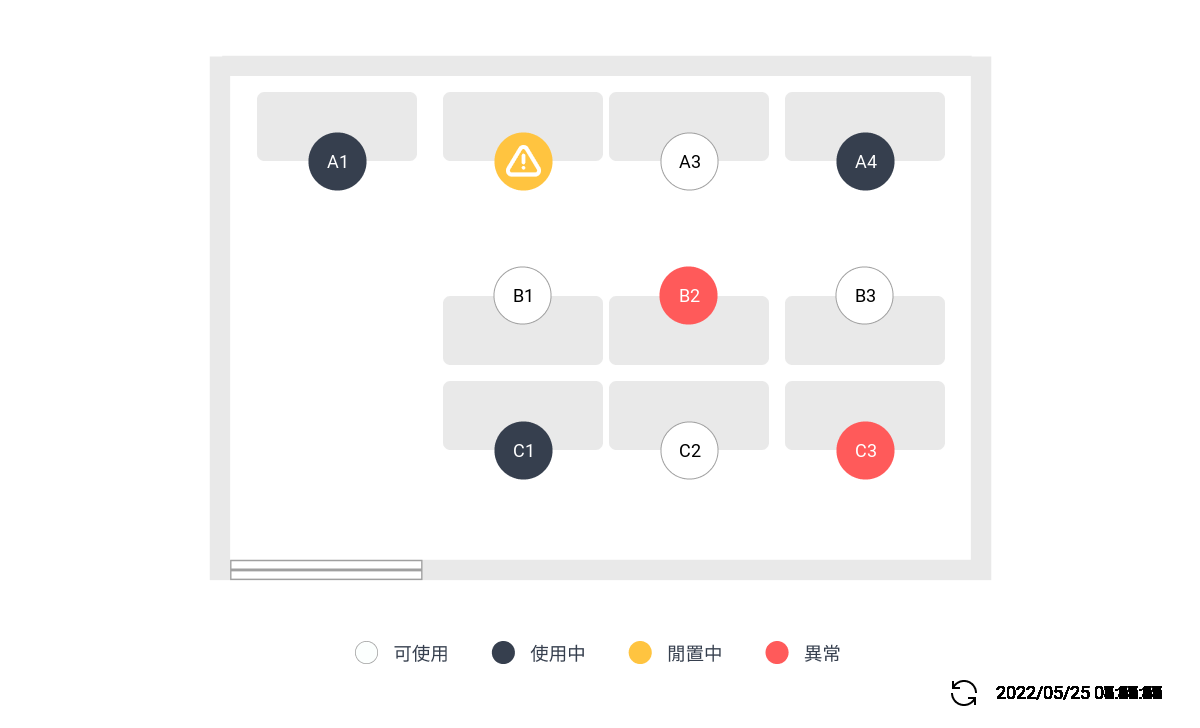
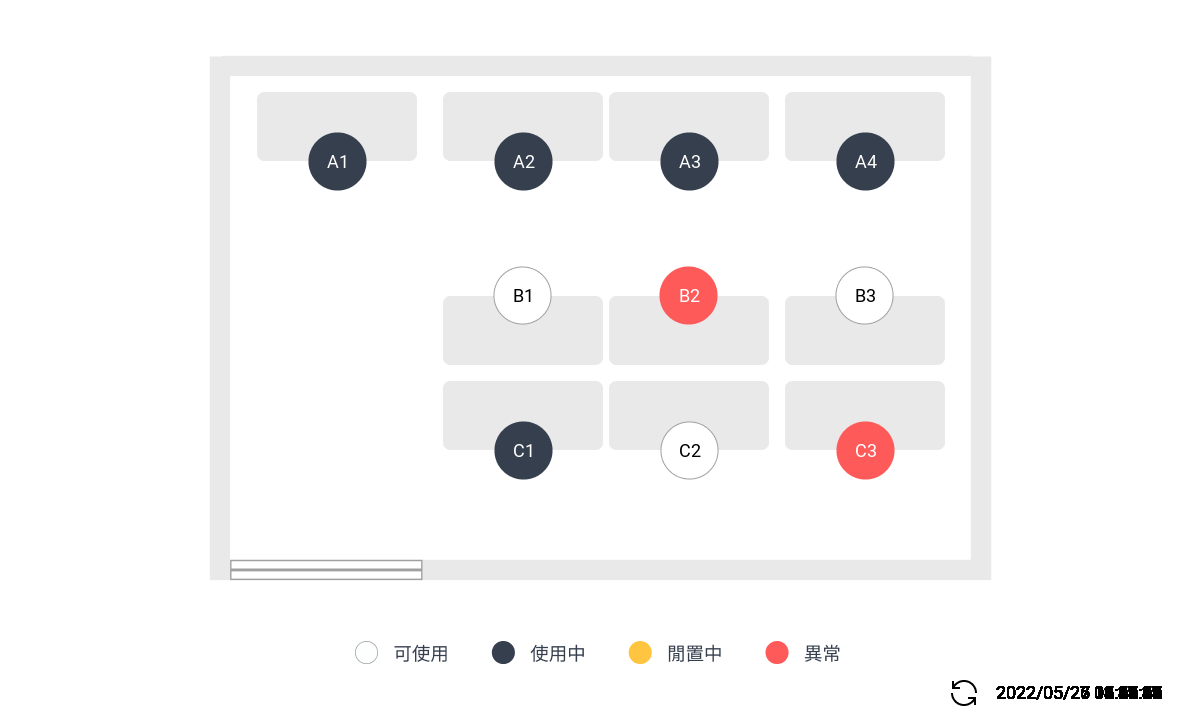
merge stash

Changed region(s): [[0.5242, 0.1813, 0.6167, 0.272], [0.4008, 0.1813, 0.4625, 0.272]]

diff --git a/backend/src/controllers/mosquitto.js b/backend/src/controllers/mosquitto.js
@@ -14,25 +14,26 @@ const IRHandler = async ({ index, seatUseState, time }) => {
     seatService.updateSeatState(
       index,
       seatProperty.state.IDLE_TOO_LONG,
+      new Date(time),
       seat.memberId
     );
     lineDev.pushAdminMessage(index);
     return;
   } else if (seatUseState === 1) {
-    seatService.updateSeatState(index, seatProperty.state.USING, seat.memberId);
+    seatService.updateSeatState(index, seatProperty.USING, new Date(time), seat.memberId);
   }
 };
 
-const RFIDHandler = async ({ index, cardId }) => {
+const RFIDHandler = async ({ index, cardId, time }) => {
   const memberInfo = await memberService.getMemberInfoByCardId(cardId);
   if (!memberInfo) {
     return;
   }
-  seatService.updateSeatState(index, seatProperty.state.USING, memberInfo.id);
+  seatService.updateSeatState(index, seatProperty.USING, new Date(time), memberInfo.id);
 };
 
-const errorHandler = async ({ index, errorMessage, sensorName }) => {
-  seatService.updateSeatState(index, seatProperty.state.ERROR, null);
+const errorHandler = async ({ index, errorMessage, sensorName, time }) => {
+  seatService.updateSeatState(index, seatProperty.ERROR, new Date(time), null);
 };
 
 module.exports = {
